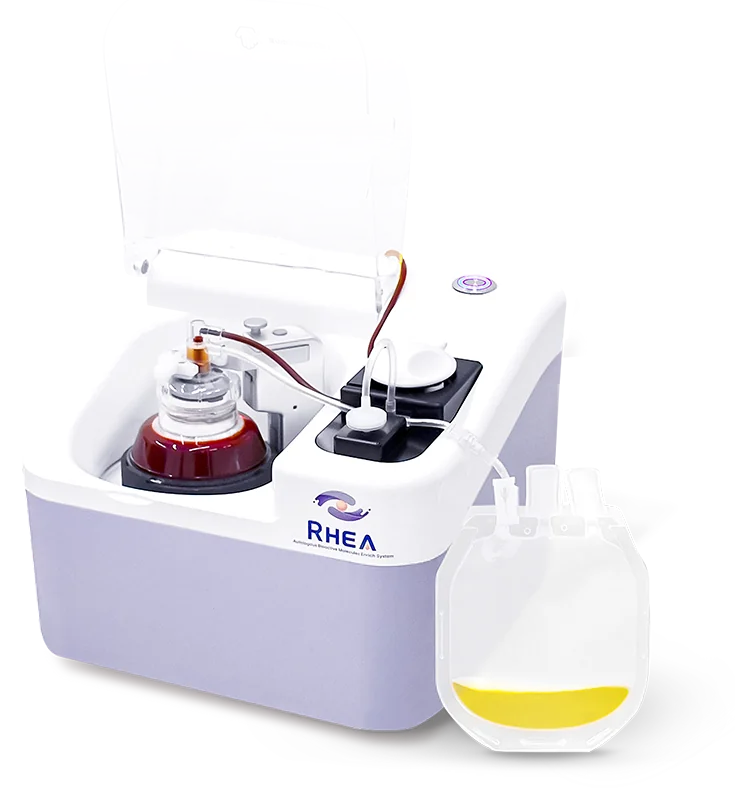
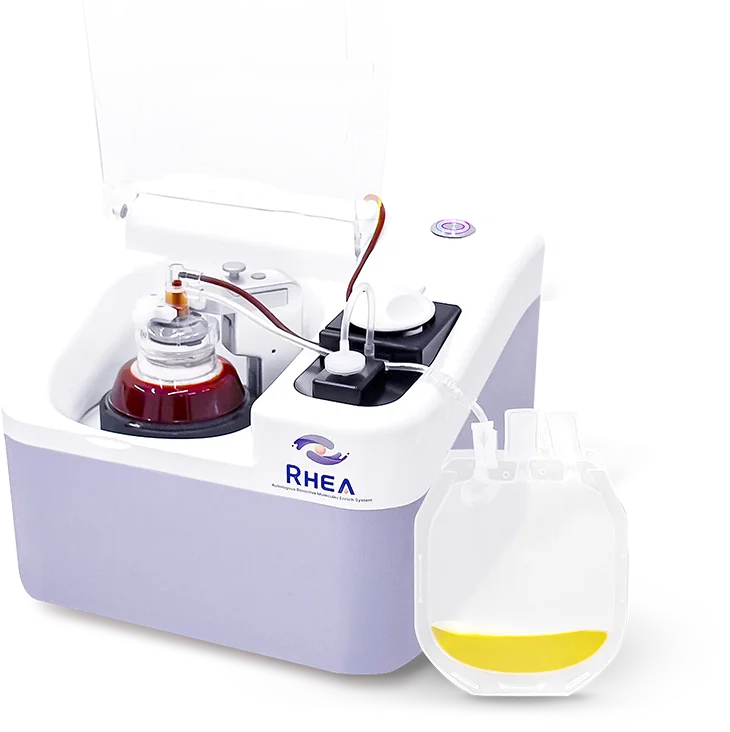
Rhea 히어로 이미지를 새 원본으로 교체
Claude-Session: https://claude.ai/code/session_011m2VfMbVd8JvaP3qoxVDuP

diff --git a/index.html b/index.html
@@ -312,7 +312,7 @@
   <section class="visual" id="visual" aria-roledescription="carousel" aria-label="제품 소개">
     <div class="slide s2 is-active is-first" aria-roledescription="slide" aria-label="1 / 2">
       <div class="bg"></div>
-      <div class="pic-box"><picture><source media="(max-width:1023px)" srcset="img/web/hero-rhea-mo.webp"><img class="pic" src="img/web/hero-rhea-pc.webp" alt="Rhea 장비" width="1363" height="1419" fetchpriority="high" decoding="async"></picture></div>
+      <div class="pic-box"><picture><source media="(max-width:1023px)" srcset="img/web/hero-rhea-mo.webp"><img class="pic" src="img/web/hero-rhea-pc.webp" alt="Rhea 장비" width="1352" height="1288" fetchpriority="high" decoding="async"></picture></div>
       <div class="txt_box">
         <p class="tit fade-up"><span class="en">Rhea</span><br>폐쇄형 백 농축 시스템</p>
         <p class="desc fade-up">백(Bag) 기반의 폐쇄형 구성으로<br>대용량 시술에 맞춘 워크플로우를 제공합니다</p>
